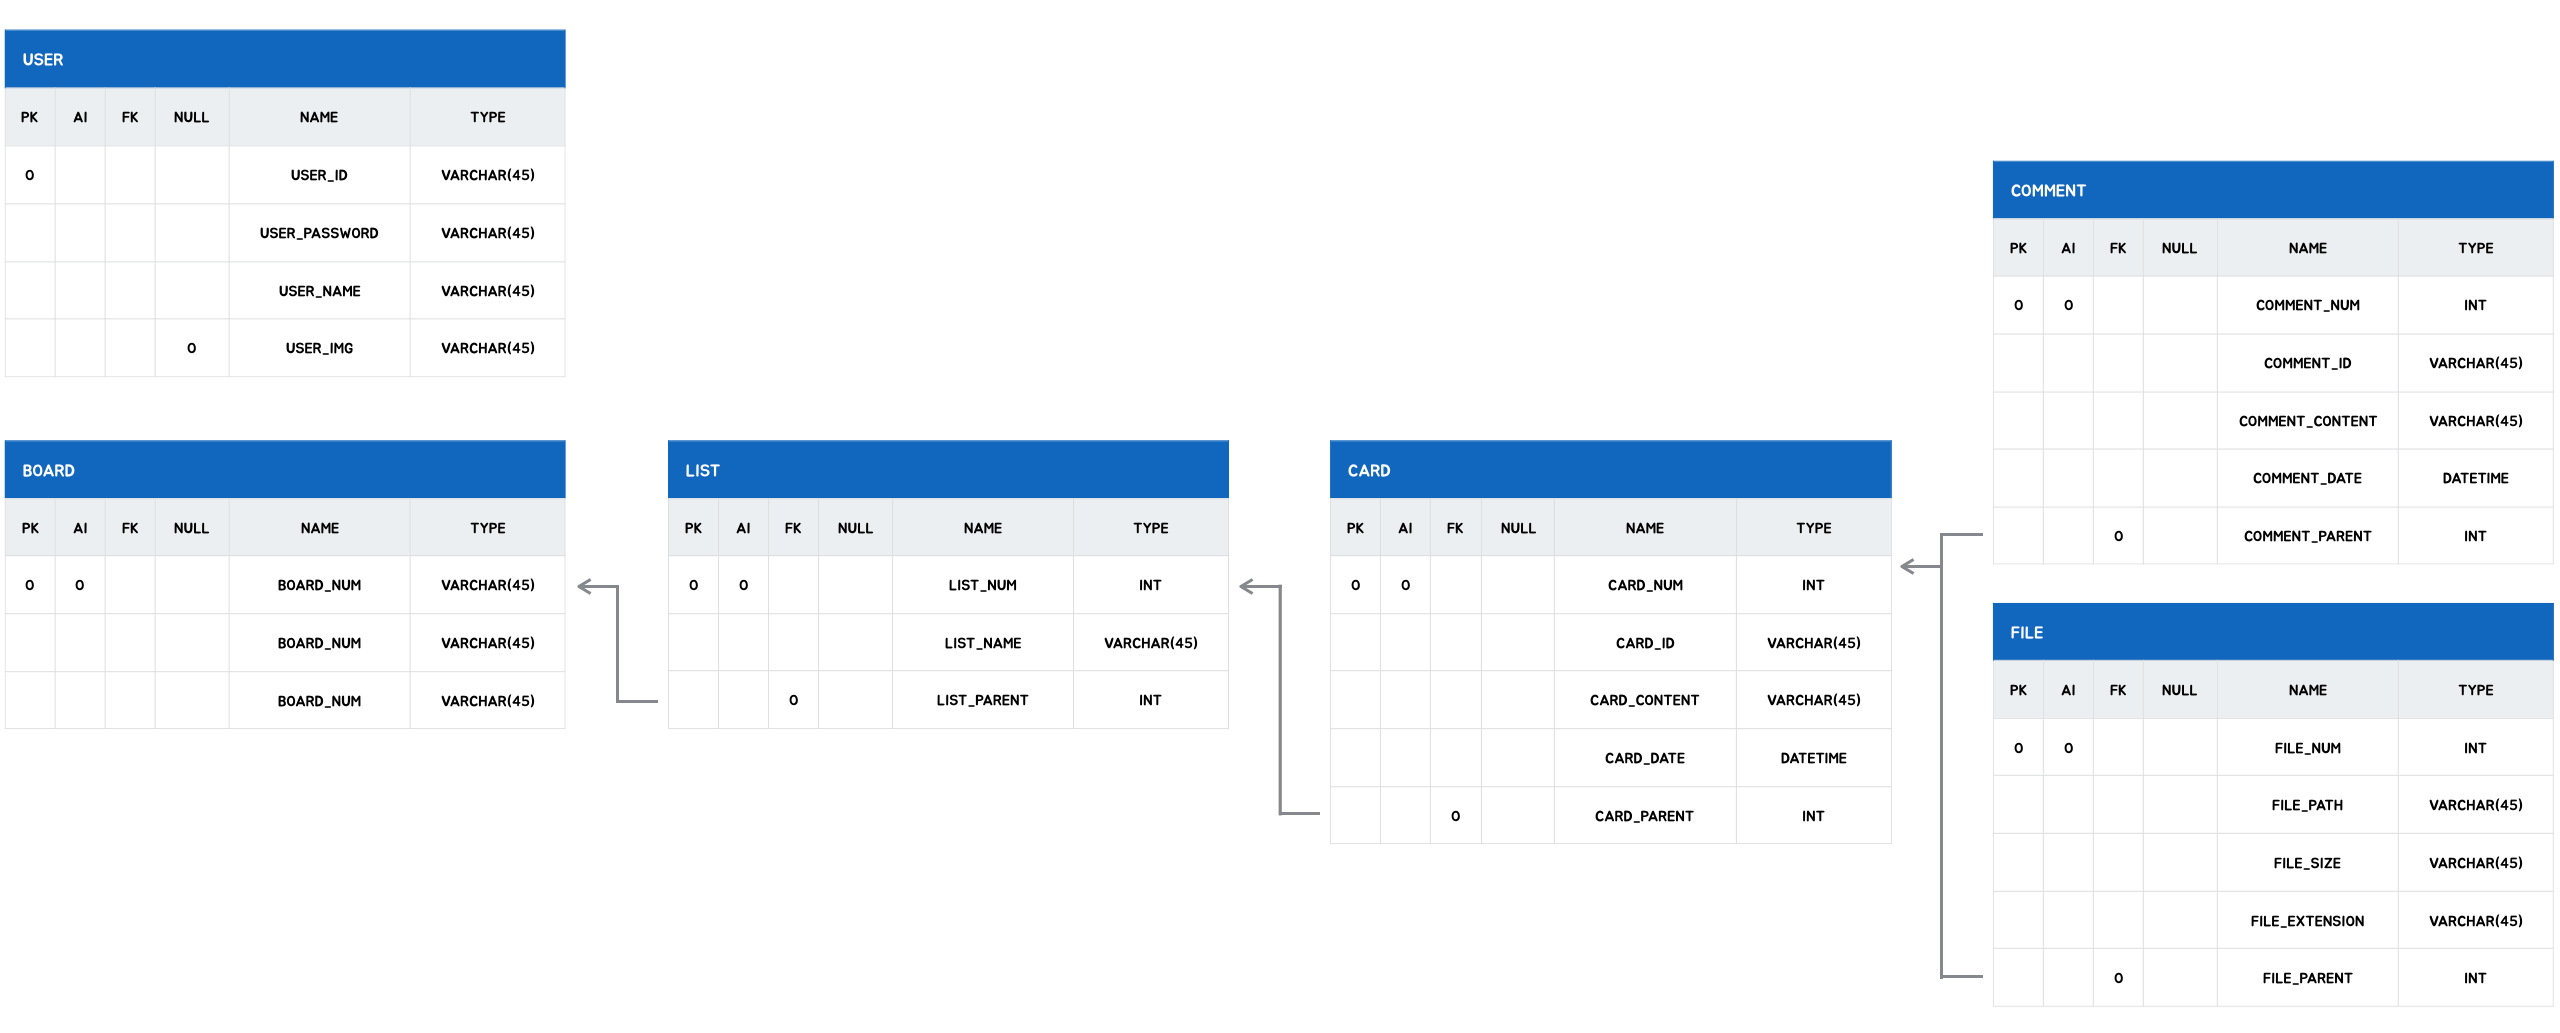
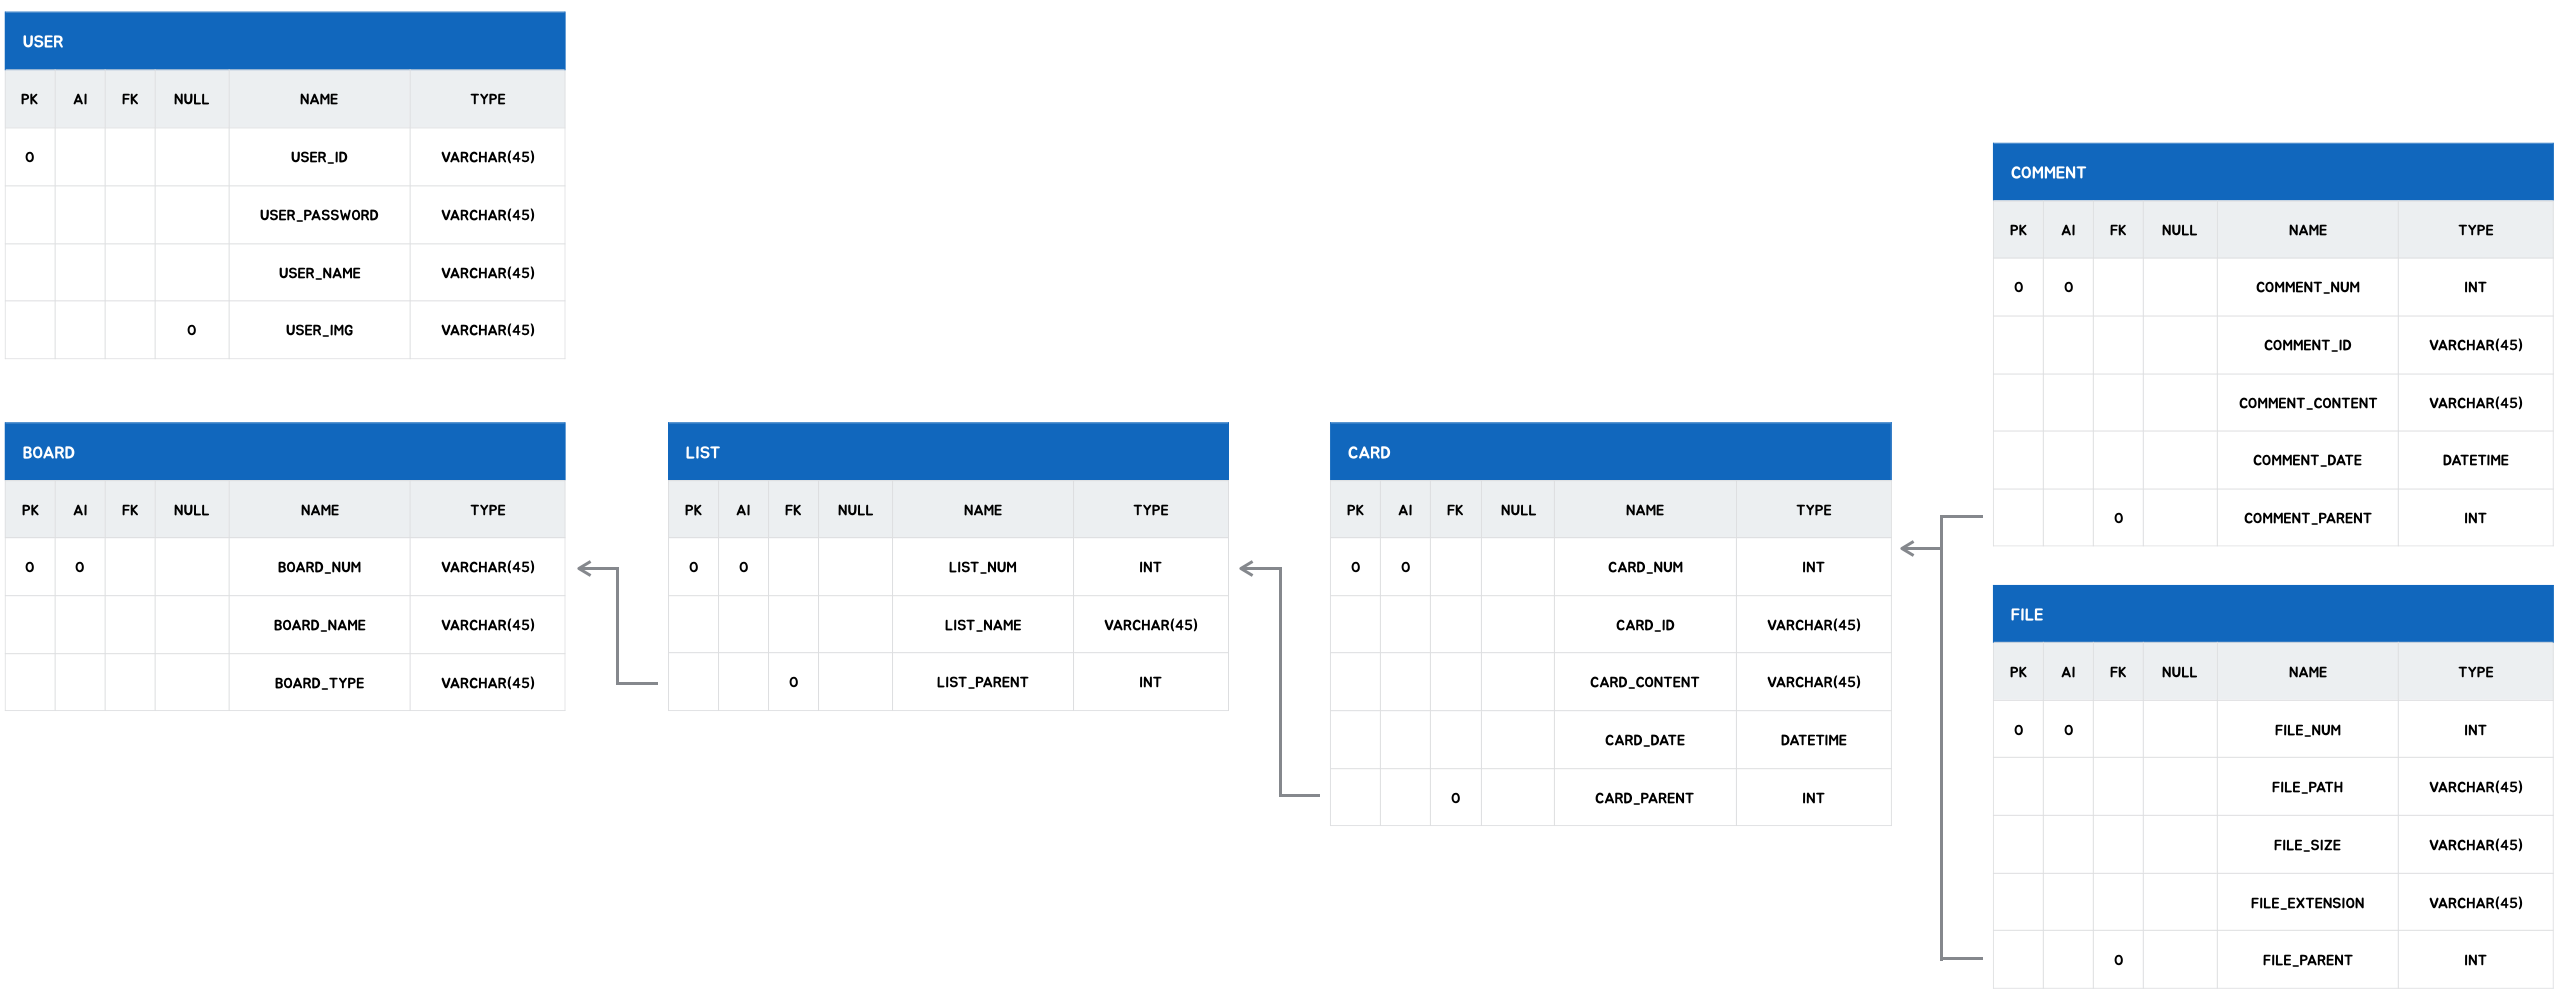
add mybatis(board)

diff --git a/Boardit/src/main/webapp/resources/js/pop_board.js b/Boardit/src/main/webapp/resources/js/pop_board.js
@@ -1,8 +1,10 @@
 function btnSubmitClicked() {
+	document.c_form.method="post";
 	var opener = window.opener.name;
 	var value = document.c_form.c_txt.value;
 	
 	window.opener.setBoardName(opener, value);
+	document.c_form.submit();
 	self.close();
 }
 

diff --git a/Boardit/src/main/java/com/sonandhan/boardit/controller/BIController.java b/Boardit/src/main/java/com/sonandhan/boardit/controller/BIController.java
@@ -2,21 +2,18 @@ package com.sonandhan.boardit.controller;
 
 import java.text.DateFormat;
 import java.util.Date;
-import java.util.List;
 import java.util.Locale;
-
-import org.slf4j.Logger;
-import org.slf4j.LoggerFactory;
 
 import javax.inject.Inject;
 import javax.servlet.http.HttpServletRequest;
 
+import org.slf4j.Logger;
+import org.slf4j.LoggerFactory;
 import org.springframework.stereotype.Controller;
 import org.springframework.ui.Model;
 import org.springframework.web.bind.annotation.RequestMapping;
 import org.springframework.web.bind.annotation.RequestMethod;
 
-import com.sonandhan.boardit.HomeController;
 import com.sonandhan.boardit.command.BICommand;
 import com.sonandhan.boardit.command.BIContentCommand;
 import com.sonandhan.boardit.command.BIDeleteCommand;
@@ -24,7 +21,9 @@ import com.sonandhan.boardit.command.BIListCommand;
 import com.sonandhan.boardit.command.BIModifyCommand;
 import com.sonandhan.boardit.command.BIReplyCommand;
 import com.sonandhan.boardit.command.BIWriteCommand;
+import com.sonandhan.boardit.dto.BoardDTO;
 import com.sonandhan.boardit.dto.UserDTO;
+import com.sonandhan.boardit.service.BoardService;
 import com.sonandhan.boardit.service.UserService;
 
 @Controller
@@ -33,9 +32,12 @@ public class BIController {
 	BICommand command;
 
 	private static final Logger logger = LoggerFactory.getLogger(BIController.class);
-	@Inject
 
-	private UserService user_service;
+	@Inject
+	private UserService userService;
+
+	@Inject
+	private BoardService boardService;
 
 	// 로그인 화면에서 로그인 버튼 클릭 후
 	@RequestMapping(value = "/home")
@@ -43,7 +45,7 @@ public class BIController {
 
 		logger.info("home");
 
-		UserDTO loginUser = user_service.findByUserIdAndPassword(request.getParameter("userId"),
+		UserDTO loginUser = userService.findByUserIdAndPassword(request.getParameter("userId"),
 				request.getParameter("userPassword"));
 
 		System.out.println(">>BIController - login(POST)");
@@ -103,7 +105,7 @@ public class BIController {
 
 		System.out.println(">>BIController - signup(POST)");
 		System.out.println(">>BIController - signup(POST) user : " + user.getUserName());
-		user_service.signupUser(user);
+		userService.signupUser(user);
 
 		return "signup";
 	}
@@ -122,19 +124,59 @@ public class BIController {
 		return "profile";
 	}
 
-	@RequestMapping("/board")
+	// @RequestMapping("/board")
+	// public String board(Model model) {
+	//
+	// System.out.println("board()");
+	// // 작성 화면(form)만 띄움
+	// return "board";
+	// }
+
+	@RequestMapping(value = "/board", method = RequestMethod.GET)
 	public String board(Model model) {
 
-		System.out.println("board()");
+		System.out.println("boardGET()");
 		// 작성 화면(form)만 띄움
 		return "board";
 	}
 
-	@RequestMapping("/pop_board")
-	public String popBoard(Model model) {
+	// @RequestMapping(value="/board", method = RequestMethod.POST)
+	// public String boardPOST(BoardDTO board, Model model) throws Exception {
+	//
+	// System.out.println("boardPOST()");
+	// // 작성 화면(form)만 띄움
+	//
+	// boardService.registBoard(board);
+	// model.addAttribute("result", "success");
+	//
+	// return "board";
+	// }
 
-		System.out.println("pop_board()");
+	//
+	// @RequestMapping("/pop_board")
+	// public String registerGET(Model model) {
+	//
+	// System.out.println("pop_board()");
+	// // 작성 화면(form)만 띄움
+	// return "pop_board";
+	// }
+
+	@RequestMapping(value = "/pop_board", method = RequestMethod.GET)
+	public String registerGET(Model model) {
+
+		System.out.println("registerGET()");
 		// 작성 화면(form)만 띄움
+		return "pop_board";
+	}
+
+	@RequestMapping(value = "/pop_board", method = RequestMethod.POST)
+	public String reqisterPOST(Model model, HttpServletRequest request) throws Exception {
+		System.out.println("reqister()");
+
+		BoardDTO board = new BoardDTO(3, request.getParameter("boardName"), "personal");
+		boardService.registBoard(board);
+		model.addAttribute("result", "success");
+
 		return "pop_board";
 	}
 

diff --git a/Boardit/src/main/java/com/sonandhan/boardit/dao/BoardDAOImpl.java b/Boardit/src/main/java/com/sonandhan/boardit/dao/BoardDAOImpl.java
@@ -1,0 +1,45 @@
+package com.sonandhan.boardit.dao;
+
+import java.util.List;
+
+import javax.inject.Inject;
+
+import org.apache.ibatis.session.SqlSession;
+import org.springframework.stereotype.Repository;
+
+import com.sonandhan.boardit.dto.BoardDTO;
+import com.sonandhan.boardit.dto.UserDTO;
+
+@Repository
+public class BoardDAOImpl implements BoardDAO {
+
+	@Inject
+	private SqlSession sqlSession;
+
+	private static final String namespace = "com.example.mapper.boardMapper";
+
+	@Override
+	public void insertBoard(BoardDTO boardDTO) {
+		// TODO Auto-generated method stub
+		sqlSession.insert(namespace + ".insertBoard", boardDTO);
+	}
+
+	@Override
+	public List<BoardDTO> readBoard() throws Exception {
+		// TODO Auto-generated method stub
+		return sqlSession.selectList(namespace + ".selectBoard");
+	}
+
+	@Override
+	public List<BoardDTO> readBoardWithType(String boardType) {
+		// TODO Auto-generated method stub
+		return sqlSession.selectList(namespace + ".selectBoardWithType", boardType);
+	}
+
+	@Override
+	public BoardDTO readBoardWithNum(int boardNum) {
+		// TODO Auto-generated method stub
+		return sqlSession.selectOne(namespace + ".selectBoardWithNum", boardNum);
+	}
+
+}

diff --git a/Boardit/src/main/java/com/sonandhan/boardit/service/BoardServiceImpl.java b/Boardit/src/main/java/com/sonandhan/boardit/service/BoardServiceImpl.java
@@ -1,0 +1,42 @@
+package com.sonandhan.boardit.service;
+
+import java.util.List;
+
+import javax.inject.Inject;
+
+import org.springframework.stereotype.Service;
+
+import com.sonandhan.boardit.dao.BoardDAO;
+import com.sonandhan.boardit.dto.BoardDTO;
+
+@Service
+public class BoardServiceImpl implements BoardService {
+
+	@Inject
+	private BoardDAO boardDAO;
+
+	@Override
+	public void registBoard(BoardDTO board) throws Exception {
+		// TODO Auto-generated method stub
+		boardDAO.insertBoard(board);
+	}
+
+	@Override
+	public BoardDTO readBoardWithNum(Integer boardNum) throws Exception {
+		// TODO Auto-generated method stub
+		return boardDAO.readBoardWithNum(boardNum);
+	}
+
+	@Override
+	public List<BoardDTO> readBoardWithType(String boardType) throws Exception {
+		// TODO Auto-generated method stub
+		return boardDAO.readBoardWithType(boardType);
+	}
+
+	@Override
+	public List<BoardDTO> readBoard() throws Exception {
+		// TODO Auto-generated method stub
+		return boardDAO.readBoard();
+	}
+
+}

diff --git a/Boardit/src/main/java/com/sonandhan/boardit/dto/BoardDTO.java b/Boardit/src/main/java/com/sonandhan/boardit/dto/BoardDTO.java
@@ -6,6 +6,12 @@ public class BoardDTO {
 	private String boardName;
 	private String boardType;
 
+	public BoardDTO(int boardNum, String boardName, String boardType) {
+		this.boardName = boardName;
+		this.boardNum = boardNum;
+		this.boardType = boardType;
+	}
+	
 	public int getBoardNum() {
 		return boardNum;
 	}
@@ -28,6 +34,10 @@ public class BoardDTO {
 
 	public void setBoardType(String boardType) {
 		this.boardType = boardType;
+	}
+
+	public String toString() {
+		return "BoardDTO [boardNum=" + boardNum + ", boardName=" + boardName + ", boardType=" + boardType + "]";
 	}
 
 }

diff --git a/Boardit/src/main/java/com/sonandhan/boardit/service/BoardService.java b/Boardit/src/main/java/com/sonandhan/boardit/service/BoardService.java
@@ -1,0 +1,17 @@
+package com.sonandhan.boardit.service;
+
+import java.util.List;
+
+import com.sonandhan.boardit.dto.BoardDTO;
+
+public interface BoardService {
+
+	public void registBoard(BoardDTO board) throws Exception;
+
+	public BoardDTO readBoardWithNum(Integer boardNum) throws Exception;
+
+	public List<BoardDTO> readBoardWithType(String boardType) throws Exception;
+
+	public List<BoardDTO> readBoard() throws Exception;
+
+}

diff --git a/Boardit/src/main/java/com/sonandhan/boardit/dao/BoardDAO.java b/Boardit/src/main/java/com/sonandhan/boardit/dao/BoardDAO.java
@@ -1,5 +1,14 @@
 package com.sonandhan.boardit.dao;
 
+import java.util.List;
+
+import com.sonandhan.boardit.dto.BoardDTO;
+
 public interface BoardDAO {
 
+	
+	public void insertBoard(BoardDTO boardDTO);
+	public List<BoardDTO> readBoard() throws Exception;
+	public List<BoardDTO> readBoardWithType(String boardType);
+	public BoardDTO readBoardWithNum(int boardNum);
 }
